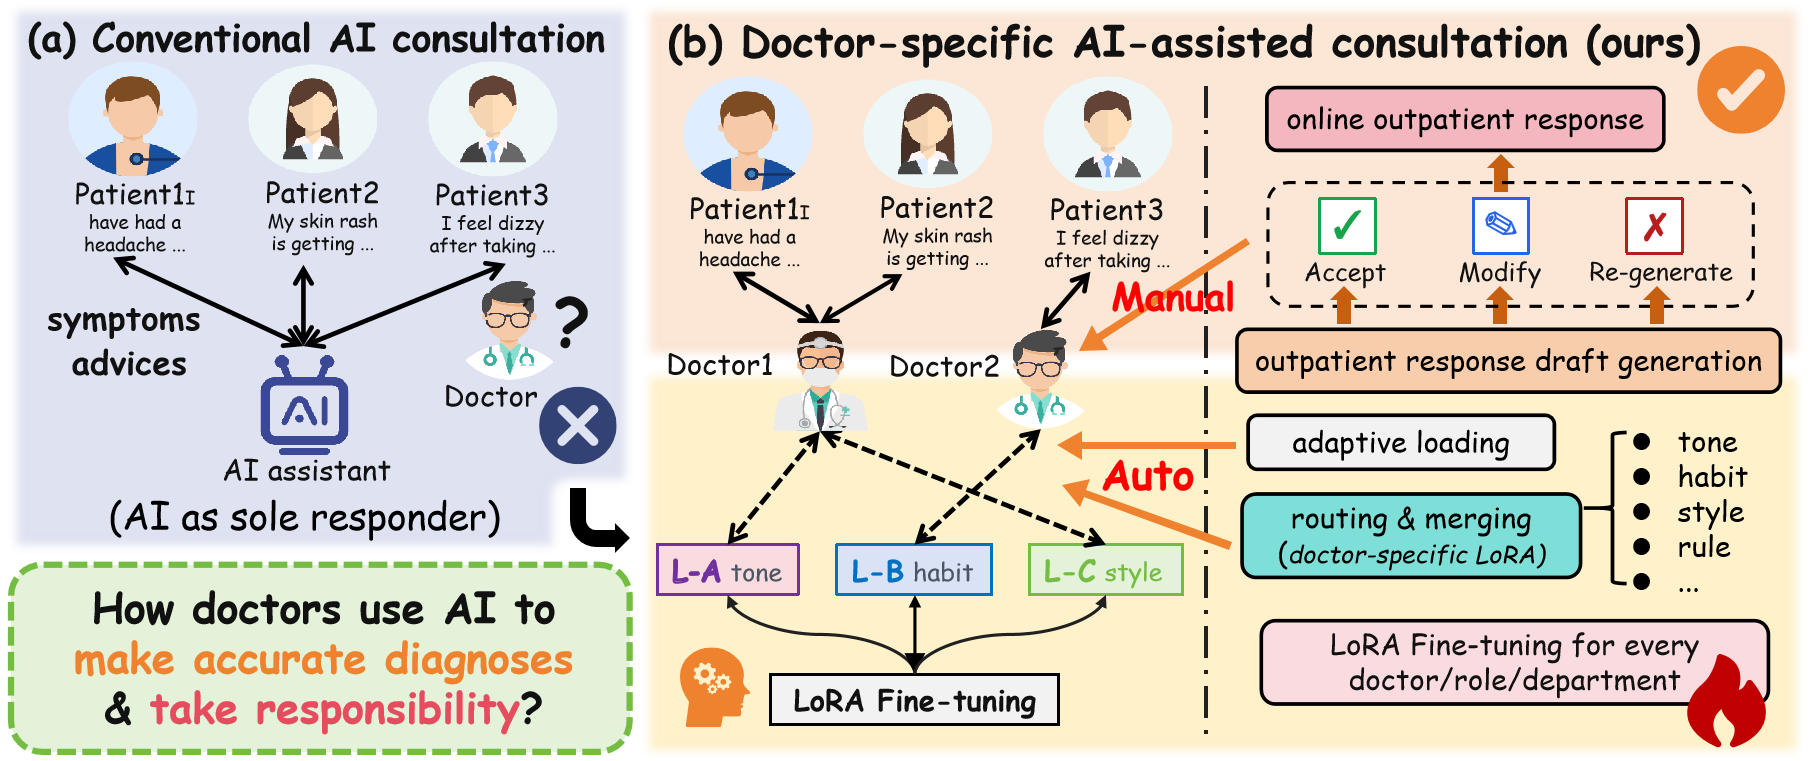
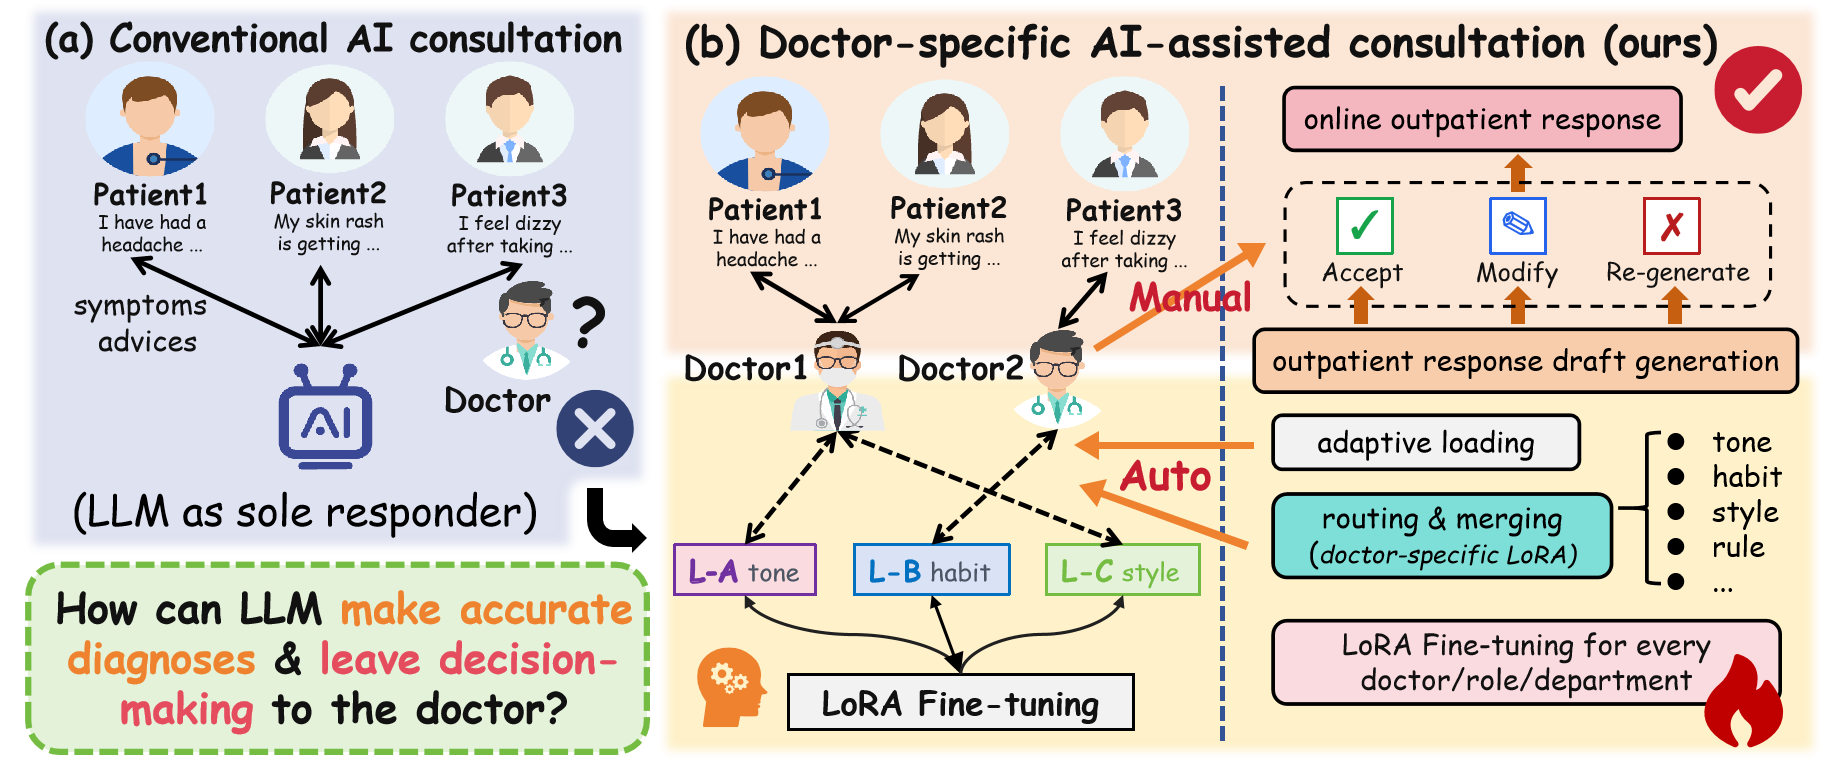
upd data

diff --git a/section/section4implementation.tex b/section/section4implementation.tex
@@ -6,17 +6,15 @@
 
 We construct the \textbf{Internet Hospital Doctor-Patient Dialogue (IHDPD)} dataset from the consultation records of a real-world internet hospital platform. The data collection and processing pipeline adheres to strict ethical and privacy protocols approved by the First Hospital of Hebei Medical University.
 
-\textbf{Data Source.} The raw data consist of text-based consultation records collected over a 24-month period (January 2024 to December 2025) from an operational internet hospital serving over 100,000 registered patients and more than 500 licensed physicians across 15 clinical departments, including internal medicine, cardiology, dermatology, pediatrics, obstetrics and gynecology, orthopedics, neurology, gastroenterology, endocrinology, psychiatry, ophthalmology, otolaryngology, urology, respiratory medicine, and general surgery.
+\textbf{Data Source.} The raw data consist of text-based consultation records collected over a 24-month period (January 2025 to December 2026) from an operational internet hospital platform serving over 100,000 registered patients and more than 500 licensed physicians across 15 clinical departments, including internal medicine, cardiology, dermatology, pediatrics, obstetrics and gynecology, orthopedics, neurology, gastroenterology, endocrinology, psychiatry, ophthalmology, otolaryngology, urology, respiratory medicine, and general surgery. After de-identification and quality filtering, the training set comprises 20,149 dialogue windows ($\sim$216,000 individual messages) and the test set comprises 2,059 dialogue windows ($\sim$22,000 individual messages), spanning 766 licensed physicians.
 
 \textbf{De-identification.} All personally identifiable information (PII) and protected health information (PHI) are systematically removed using a hybrid approach combining rule-based pattern matching (for structured identifiers such as names, ID numbers, phone numbers, and addresses) with a fine-tuned named entity recognition model~\cite{johnsonMIMICIIIFreelyAccessible2016} (for contextual identifiers such as hospital names, dates, and locations). The de-identification pipeline achieves a recall of 98.7\% and a precision of 97.2\% on a manually annotated validation set of 500 dialogues. All de-identified records undergo a secondary manual review by two independent annotators to ensure completeness.
 
 \textbf{Dialogue Structure.} Each consultation session in IHDPD is structured as a multi-turn dialogue between one patient and one physician. A typical session comprises an initial symptom description by the patient, followed by one or more rounds of physician inquiry, diagnostic reasoning, and treatment recommendation. The dataset preserves the natural turn-taking structure, including timestamps (with dates generalized to month-level granularity), department labels, and physician specialty annotations.
 
-\textbf{Data Partitioning.} For each physician $d_k$ with at least 50 consultation records, we split their dialogues into training (70\%), validation (15\%), and test (15\%) sets. Physicians with fewer than 50 records are excluded from the personalization experiments but are retained in the dataset for aggregate baseline training. The final dataset used for personalization experiments comprises $K = 120$ physicians with a median of 186 dialogues per physician (range: 50--1,247).
+\textbf{Data Partitioning.} For each physician, dialogue windows are partitioned chronologically into training (70\%, earliest consultations), validation (15\%), and test (15\%, most recent consultations) sets. The training set comprises 20,149 dialogue windows ($\sim$216,000 individual messages) from 415 physicians, while the held-out test set contains 2,059 windows ($\sim$22,000 messages) from 351 physicians. All experiments use random seed 42 for data splitting, model initialization, and training order to ensure reproducibility.
 
 
-
-\textbf{Data Split.} For each physician, dialogues are partitioned chronologically into training (70\%, earliest consultations), validation (15\%), and test (15\%, most recent consultations) sets. The test set comprises a total of 4,522 queries (median 37 per physician, range 8--89). All experiments use random seed 42 for data splitting, model initialization, and training order to ensure reproducibility.
 
 \textbf{Hyperparameter Selection.} LoRA rank $r$ and SCF trim fraction $\tau$ were selected via grid search over $r \in \{4,8,16,32\}$ and $\tau \in \{0.10,0.15,0.20,0.25,0.30,0.40\}$ on the validation set. The optimal configuration ($r=8$, $\tau=0.20$) was then evaluated on the held-out test set.
 

diff --git a/section/section5evaluation.tex b/section/section5evaluation.tex
@@ -8,7 +8,7 @@
 
 \textbf{Basic Settings.} We evaluate on three base models spanning distinct capability tiers: LLaMA-3.2-1B-Instruct, LLaMA-3.2-3B-Instruct~\cite{grattafioriLlama3Herd2024}, and Qwen-2.5-7B-Instruct~\cite{qwenQwen25TechnicalReport2025}. For all LoRA training, we adopt Unsloth~\cite{unsloth2024}~\cite{xmingXming521WeClone2026} for LoRA fine-tuning with rank $r=8$, alpha $\alpha=16$, and dropout $0.1$ applied to query, key, value, and output projection matrices. Training uses 8$\times$ NVIDIA H20-3e (141GB) GPUs with DeepSpeed ZeRO-2 and BF16 mixed precision; the effective batch size is 32 with a learning rate of $2\times10^{-4}$ under cosine scheduling. For inference, we apply FlashAttention-2~\cite{dao2023flashattention} for efficient attention computation. Unless otherwise specified, the full system (WebDoctor) uses per-physician LoRA-Single adapters with identity-based Doctor-Adaptive Routing (DAR) and Sign-Consistent Fusion (SCF) at trim fraction $\tau=0.20$.
 
-\textbf{Datasets.} We evaluate on the Internet Hospital Doctor-Patient Dialogue (IHDPD) dataset described in Section~4. The dataset spans 15 clinical departments and $K=120$ physicians (each with $\ge50$ consultation records), comprising 30,146 de-identified multi-turn dialogues in total. Each physician's data is split into training (70\%), validation (15\%), and test (15\%) sets. Table~\ref{tab:dataset_len} summarizes the dataset statistics, including per-department physician counts and average dialogue length.
+\textbf{Datasets.} We evaluate on the Internet Hospital Doctor-Patient Dialogue (IHDPD) dataset described in Section~4. The dataset spans 15 clinical departments and $K=120$ physicians (each with $\ge50$ consultation records), comprising 20,149 training windows ($\sim$216,000 messages) and 2,059 test windows ($\sim$22,000 messages). Each physician's data is split into training (70\%), validation (15\%), and test (15\%) sets. Table~\ref{tab:dataset_len} summarizes the dataset statistics, including per-department physician counts and average dialogue length.
 \begin{itemize}[leftmargin=*]
     \item \textbf{High-resource departments}: Internal Medicine (24 physicians, 4,821 dialogues), Cardiology (14 physicians, 2,953 dialogues), Dermatology (11 physicians, 2,374 dialogues).
     \item \textbf{Medium-resource departments}: Pediatrics (10 physicians, 2,018 dialogues), Obstetrics \& Gynecology (9 physicians, 1,826 dialogues), Orthopedics and Neurology (8 physicians each, 1,597 and 1,623 dialogues).
@@ -87,7 +87,7 @@ Respiratory Medicine & 3 & 606 & 6.0 & 50 \\
 General Surgery & 2 & 411 & 5.8 & 47 \\
 \midrule
 \rowcolor{blue!5}
-\textbf{Total/Avg.} & \textbf{120} & \textbf{30,146} & \textbf{5.8} & \textbf{48.5} \\
+\textbf{Total/Avg.} & \textbf{120} & \textbf{22,208} & \textbf{5.8} & \textbf{48.5} \\
 \bottomrule
 \end{tabular}
 \end{table}

diff --git a/main.tex b/main.tex
@@ -93,7 +93,7 @@
 
 % Affiliations / Addresses (Add [1] after \address if there is only one affiliation.)
 \address[1]{%
-$^{1}$ \quad Department of Smart Hospital Construction, the First Hospital of Hebei Medical University; wang\[email redacted]\\
+$^{1}$ \quad Department of Smart Hospital Construction, the First Hospital of Hebei Medical University; wang\[email redacted], [email redacted]\\
 % $^{2}$ \quad Affiliation 2; [email redacted]
 }
 